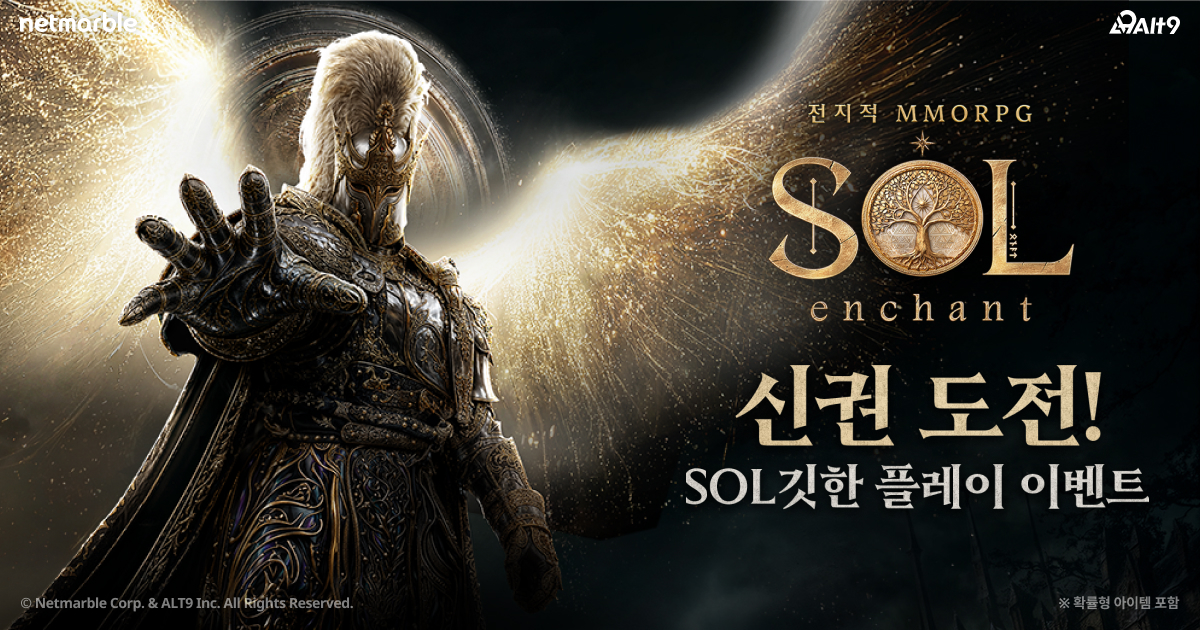
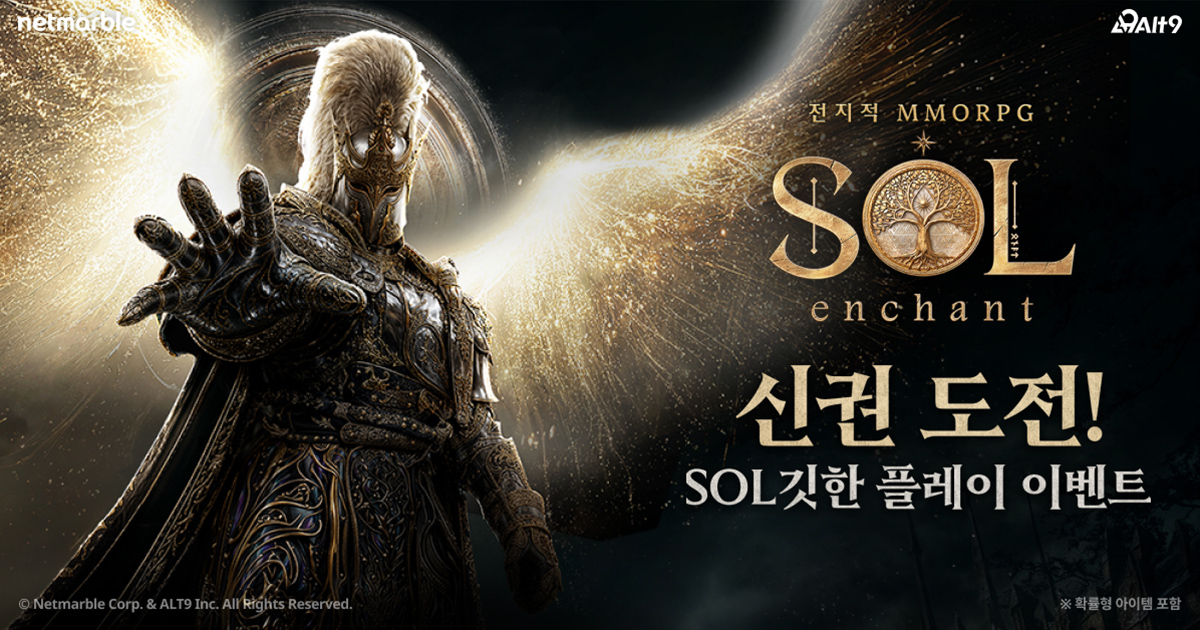
모바일 KV 위치 조정(27%) 및 썸네일·hero_kv 이미지 교체

diff --git a/style.css b/style.css
@@ -1260,7 +1260,7 @@ body {
     animation: none;
     bottom: auto;
     height: 100svh;
-    background-position: 25% top;
+    background-position: 27% top;
   }
 
   .sec--01__particles {